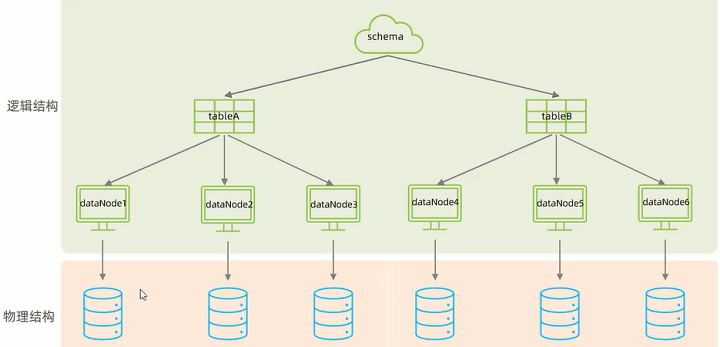
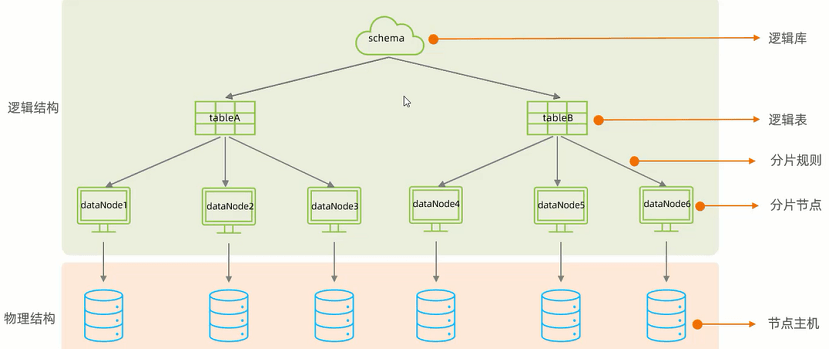
mycat

diff --git a/md/mysql/mycat1.md b/md/mysql/mycat1.md
@@ -16,3 +16,8 @@
 
 #### 3. 基本概念
 ![](https://fgq233.github.io/imgs/mysl/mycat2.png)
+
+* schema
+* table
+* dataNode
+* 物理
